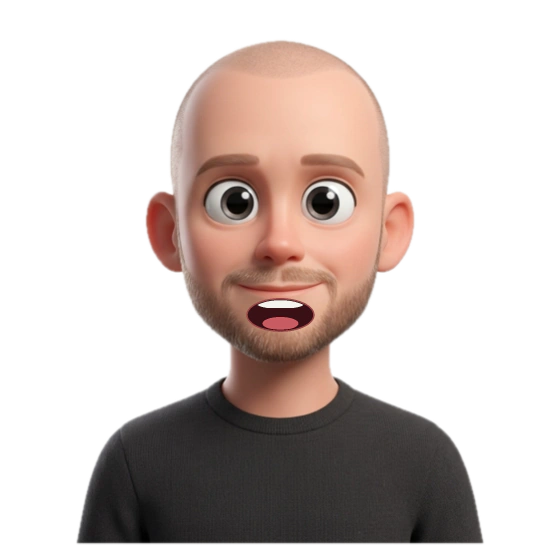
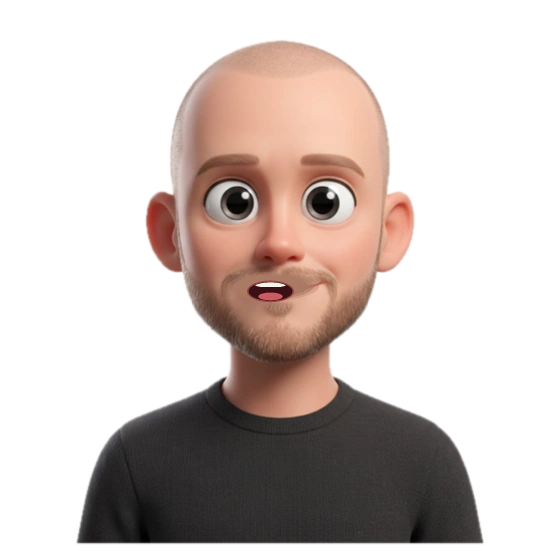
Clean talking mouths and a label for seats left out (0.4.2)
- The talking frames for Musk, Zuckerberg, Huang, and Ek now find the real
  mouth line, cover the closed smile with skin, and open the mouth in the
  same place, so there is no second mouth.
- In a quick council, the founders not seated show "Not in this council"
  on their nameplate instead of only being greyed out.

Changed region(s): [[0.3946, 0.4857, 0.5768, 0.6071]]

diff --git a/app/public/app.js b/app/public/app.js
@@ -516,6 +516,9 @@ function onSetup(ev) {
     $(`#cup-${s.key}`)?.classList.toggle("absent", absent);
     const pl = $(`#plate-${s.key}`);
     pl.classList.toggle("absent", absent);
+    // quick councils seat four founders; say so on the others instead of leaving them just greyed out
+    pl.querySelector(".sat-out")?.remove();
+    if (absent) pl.insertAdjacentHTML("beforeend", '<span class="sat-out">Not in this council</span>');
     const w = ev.weights[s.key]?.weight || 1;
     pl.title = `Weight ${w} of 3: ${ev.weights[s.key]?.reason || ""}`;
   }

diff --git a/app/public/i18n.js b/app/public/i18n.js
@@ -82,6 +82,7 @@ const PT = {
   "Up for a vote:": "Em votação:",
   "Weight on this decision": "Peso nesta decisão",
   "This seat has not spoken yet.": "Este assento ainda não falou.",
+  "Not in this council": "Fora deste conselho",
   "verified in the brain": "verificada no cérebro",
   "not found in the brain": "não encontrada no cérebro",
   "lines up next": "falas a seguir",

diff --git a/app/public/styles.css b/app/public/styles.css
@@ -665,3 +665,4 @@ button { font: inherit; cursor: pointer; }
 .cup .hand { opacity: 0; }
 .cup.sip .hand { animation: hand 3.2s var(--ease-out) both; }
 @keyframes hand { 0%, 6% { opacity: 0; } 14%, 86% { opacity: 1; } 94%, 100% { opacity: 0; } }
+.nameplate .sat-out { display: block; margin-top: 3px; font-size: 10px; font-weight: 600; color: var(--ink-mute); letter-spacing: .02em; }

diff --git a/app/scripts/make-talk-frames.py b/app/scripts/make-talk-frames.py
@@ -50,7 +50,7 @@ def blend(px,x,y,col,a):
     p=px[y][x]
     for i in range(3): p[i]=round(p[i]*(1-a)+col[i]*a)
 
-def ellipse(px,cx,cy,rx,ry,col,ss=3,clip=None):
+def ellipse(px,cx,cy,rx,ry,col,ss=3,clip=None,a=1.0):
     for y in range(int(cy-ry)-1,int(cy+ry)+2):
         for x in range(int(cx-rx)-1,int(cx+rx)+2):
             cov=0
@@ -58,7 +58,7 @@ def ellipse(px,cx,cy,rx,ry,col,ss=3,clip=None):
                 for sx in range(ss):
                     u=(x+(sx+.5)/ss-cx)/rx; v=(y+(sy+.5)/ss-cy)/ry
                     if u*u+v*v<=1 and (clip is None or clip(x+(sx+.5)/ss,y+(sy+.5)/ss)): cov+=1
-            blend(px,x,y,col,cov/(ss*ss))
+            blend(px,x,y,col,a*cov/(ss*ss))
 
 base,outdir,key=sys.argv[1:4]
 w,h,px=read(base)
@@ -81,18 +81,26 @@ for side in (0,1):
     eyes.append(dict(x0=min(xs),x1=max(xs),y0=min(ys),y1=max(ys),n=len(pts)))
 for e in eyes: e['cx']=(e['x0']+e['x1'])/2; e['cy']=(e['y0']+e['y1'])/2; e['rx']=(e['x1']-e['x0'])/2*1.12+3; e['ry']=(e['y1']-e['y0'])/2*1.15+3
 d=eyes[1]['cx']-eyes[0]['cx']; ecx=(eyes[0]['cx']+eyes[1]['cx'])/2; ecy=(eyes[0]['cy']+eyes[1]['cy'])/2
-# the lips: reddish pixels below the nose, between the eyes
-lips=[(x,y) for y in range(int(ecy+d*.55),min(h,int(ecy+d*1.5))) for x in range(int(ecx-d*.6),int(ecx+d*.6))
-      if px[y][x][3]>200 and px[y][x][0]-px[y][x][2]>55 and px[y][x][0]-px[y][x][1]>38 and sum(px[y][x][:3])<560]
-# keep the lower cluster (the nose tip can be reddish too)
-if lips:
-    ys=sorted(p[1] for p in lips); cut=ys[len(ys)//3]
-    low=[p for p in lips if p[1]>=cut] or lips
-    mx=sum(p[0] for p in low)/len(low); my=sum(p[1] for p in low)/len(low)
-    mw=max(p[0] for p in low)-min(p[0] for p in low)
+# the mouth line: below the nose, find the row with the most pixels that are darker and
+# redder than the cheek skin; its horizontal span is the width of the smile
+def avg(pts):
+    cols=[px[y][x][:3] for x,y in pts if 0<=x<w and 0<=y<h and px[y][x][3]>200]
+    return [sum(c[i] for c in cols)/len(cols) for i in range(3)] if cols else [220,180,160]
+skin=avg([(int(ecx+dx),int(ecy+d*dy)) for dx in (-d*.55,-d*.5,d*.5,d*.55) for dy in (.75,.85,.95)])
+def lip(x,y):
+    p=px[y][x]
+    if p[3]<200: return False
+    lum=sum(p[:3])/3; slum=sum(skin)/3
+    return lum < slum-28 and p[0]-p[1] > (skin[0]-skin[1])+6
+best=(0,None,None)
+for y in range(int(ecy+d*.6),min(h-1,int(ecy+d*1.45))):
+    xs=[x for x in range(int(ecx-d*.55),int(ecx+d*.55)) if lip(x,y)]
+    if len(xs)>best[0]: best=(len(xs),y,xs)
+if best[1] is not None:
+    my=best[1]; mx=(min(best[2])+max(best[2]))/2; mw=max(best[2])-min(best[2])
 else:
-    mx,my,mw=ecx,ecy+d*1.05,d*.7
-mw=max(min(mw,d*0.95),d*.45)
+    mx,my,mw=ecx,ecy+d*1.0,d*.6
+mw=max(min(mw,d*0.95),d*.4)
 print(key,'eyes',[(round(e['cx']),round(e['cy']),round(e['rx']),round(e['ry'])) for e in eyes],'mouth',round(mx),round(my),round(mw))
 
 def skin_above(e):
@@ -113,10 +121,13 @@ write(f"{outdir}/{key}-blink.png",w,h,b)
 # mid and open: a dark mouth with a bit of upper teeth and a tongue
 for name,k in (('mid',.2),('open',.34)):
     m=copy.deepcopy(px)
-    rx=mw*(.3 if name=='mid' else .36); ry=mw*k*.5
-    cy=my+ry*.35
+    # hide the closed smile: soft skin patch over the mouth line and its upturned corners
+    for rr,alpha in ((1.3,.35),(1.15,.6),(1.0,1.0)):
+        ellipse(m,mx,my-mw*.05,mw*.68*rr,mw*.2*rr,[round(v) for v in skin],a=alpha)
+    rx=mw*(.34 if name=="mid" else .4); ry=mw*k*.5
+    cy=my+ry*.25
     ellipse(m,mx,cy,rx+1.5,ry+1.5,(150,70,70))
     ellipse(m,mx,cy,rx,ry,(58,16,22))
-    ellipse(m,mx,cy-ry*.72,rx*.72,ry*.32,(245,242,236),clip=lambda X,Y,cy=cy,ry=ry:Y<cy-ry*.45 and ((X-mx)/rx)**2+((Y-cy)/ry)**2<=.92)
-    ellipse(m,mx,cy+ry*.55,rx*.55,ry*.42,(200,92,98),clip=lambda X,Y,cy=cy,ry=ry:((X-mx)/rx)**2+((Y-cy)/ry)**2<=.9)
+    ellipse(m,mx,cy-ry*.72,rx*.72,ry*.32,(245,242,236),clip=lambda X,Y,cy=cy,ry=ry,rx=rx:Y<cy-ry*.45 and ((X-mx)/rx)**2+((Y-cy)/ry)**2<=.92)
+    ellipse(m,mx,cy+ry*.55,rx*.55,ry*.42,(200,92,98),clip=lambda X,Y,cy=cy,ry=ry,rx=rx:((X-mx)/rx)**2+((Y-cy)/ry)**2<=.9)
     write(f"{outdir}/{key}-{name}.png",w,h,m)
